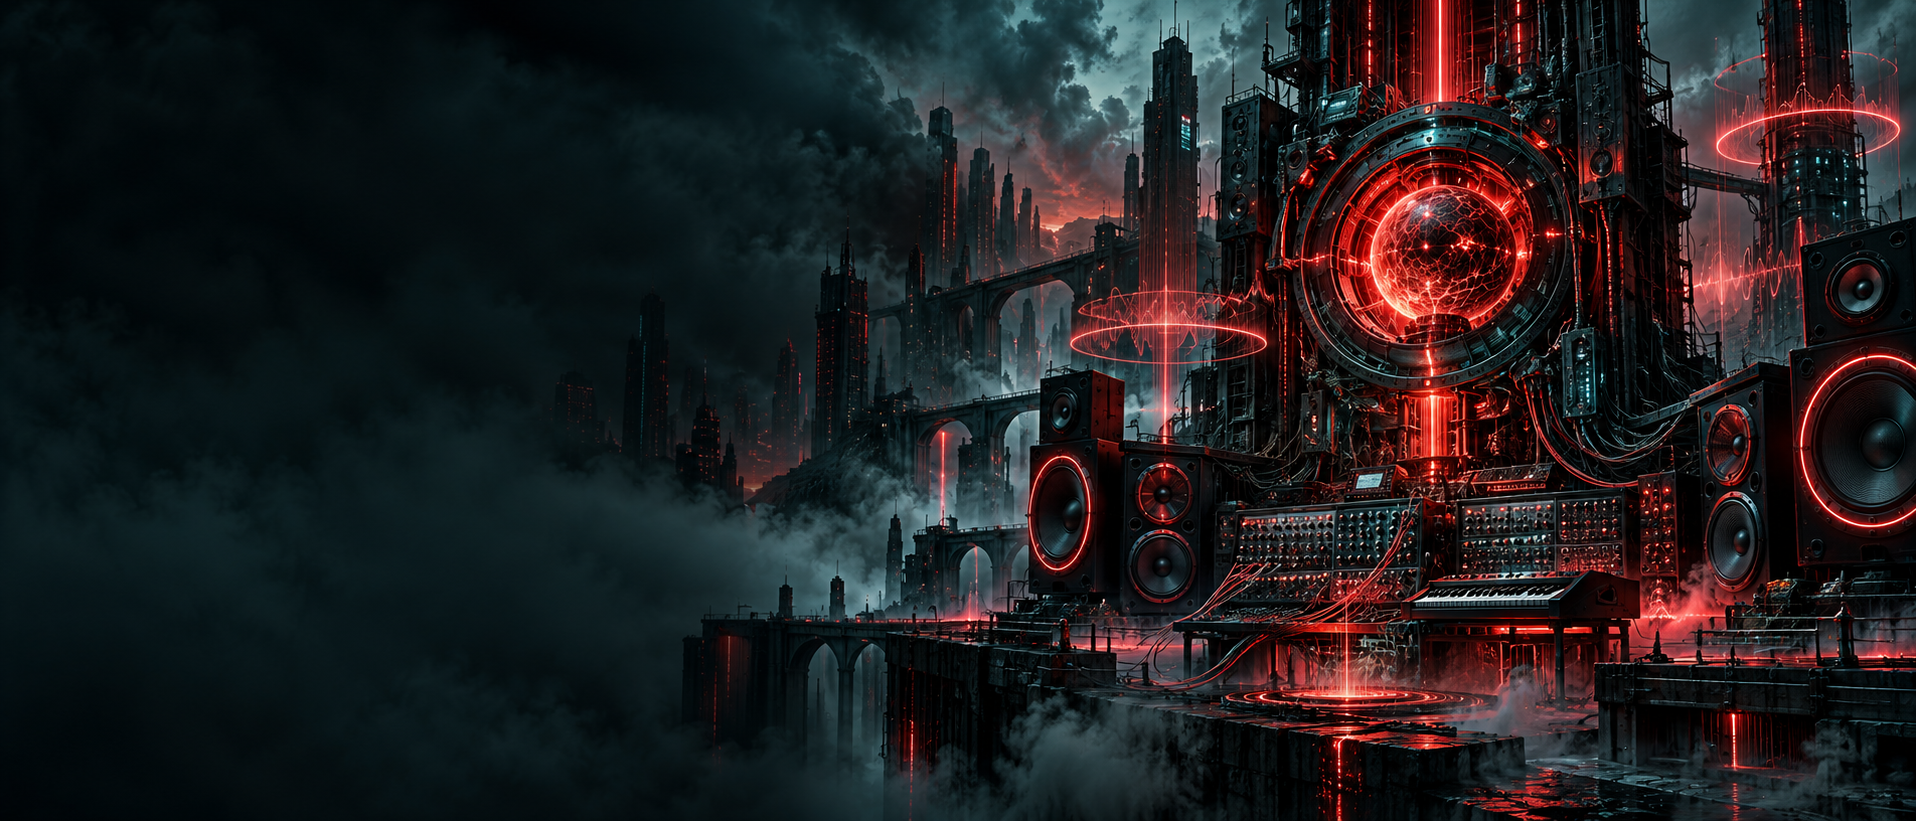
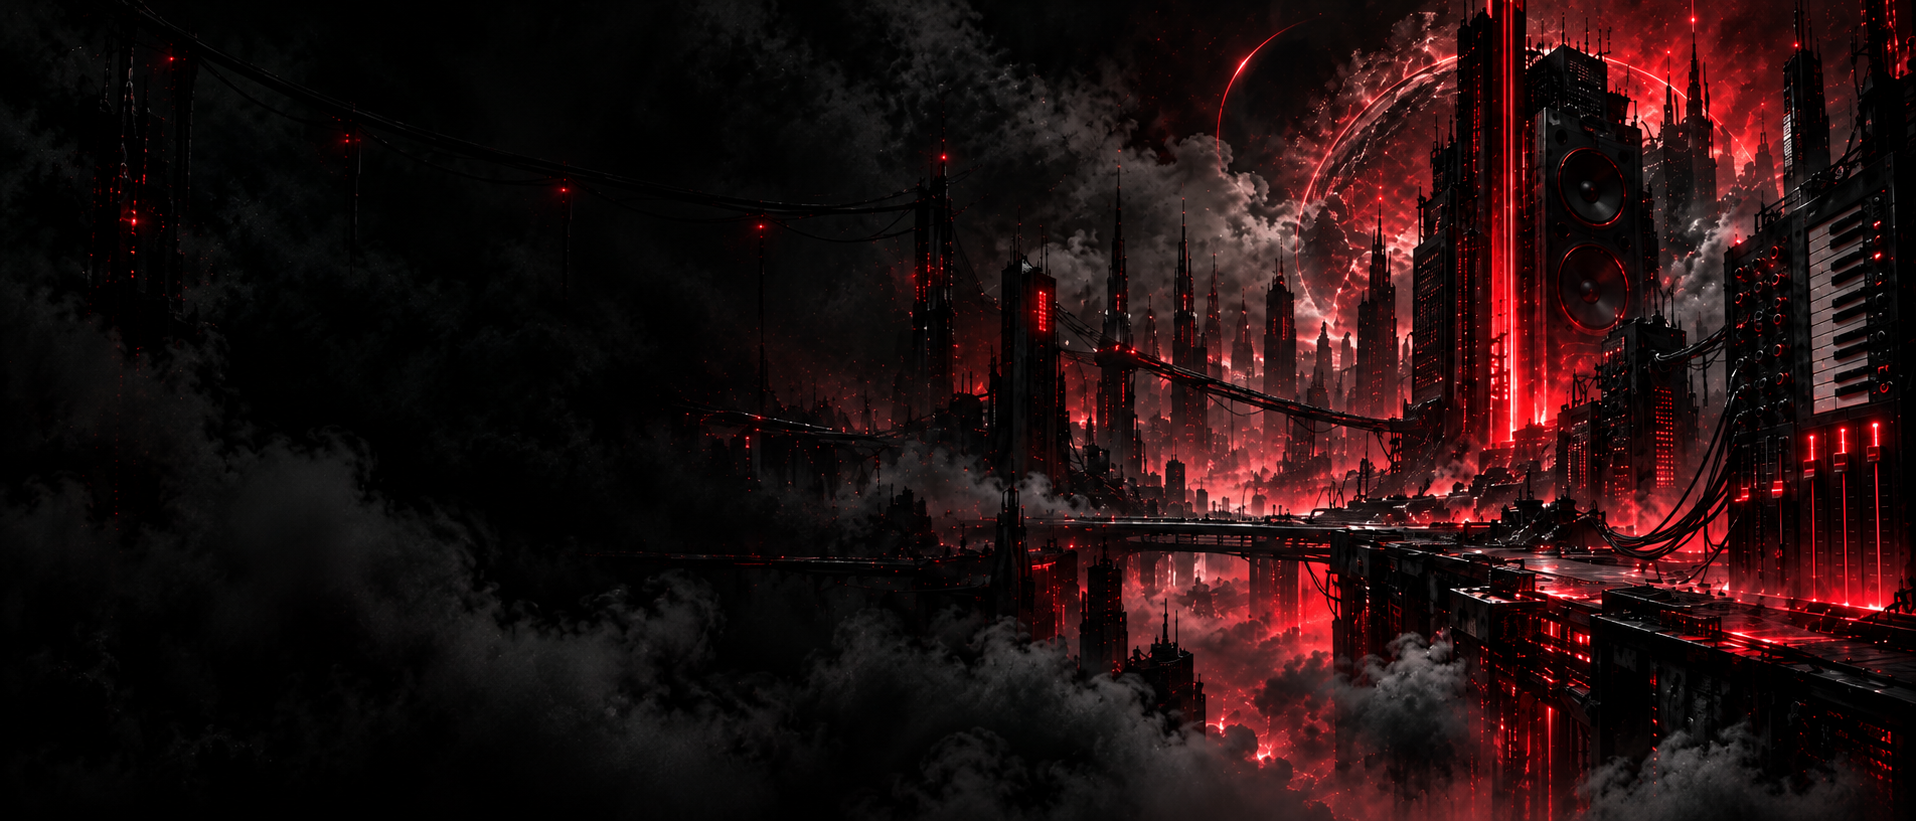
ui:: update section background

diff --git a/frontend/src/layout/page-background/PageBackground.css b/frontend/src/layout/page-background/PageBackground.css
@@ -50,7 +50,7 @@
 .page-background__image--footer {
   top: clamp(1320px, 188svh, 1800px);
   height: 720px;
-  object-position: center bottom;
+  object-position: right;
   opacity: 0.92;
   -webkit-mask-image: linear-gradient(180deg, transparent 0%, black 10%, black 90%, transparent 100%);
   mask-image: linear-gradient(180deg, transparent 0%, black 10%, black 90%, transparent 100%);
